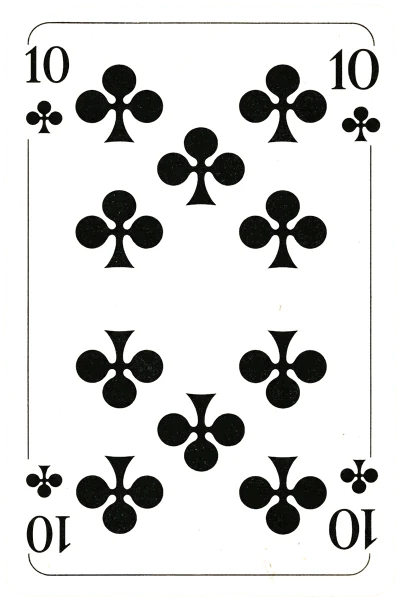
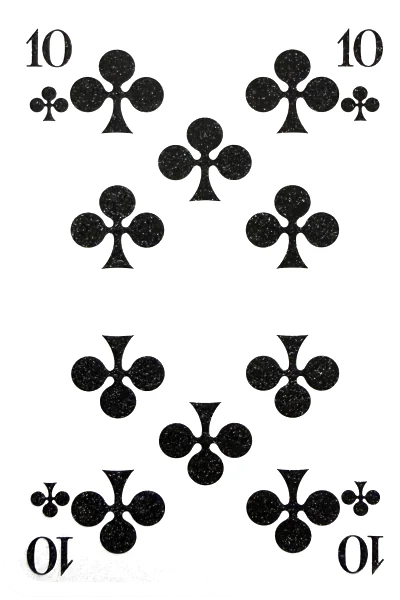
v373: Kreuz 9, 10, Ass neu (ohne Rahmen, gleiches Weiss)
Claude-Session: https://claude.ai/code/session_01Bq3j1UmgmmQRjdUKFtX7an

diff --git a/sw.js b/sw.js
@@ -4,7 +4,7 @@
 // Nur dann wirft der Browser den alten Zwischenspeicher weg und alle Spieler
 // bekommen zuverlässig die neue Version. Das ist der einzige Handgriff, den man
 // nach dem Bearbeiten von Dateien nicht vergessen darf.
-const CACHE_NAME = "trollhouse-v372";
+const CACHE_NAME = "trollhouse-v373";
 
 const DATEIEN = [
   "./",
@@ -74,18 +74,18 @@ const DATEIEN = [
   "bilder/fussball-auktion/spieler-it-5.png?v=335",
   "bilder/fussball-auktion/spieler-de-1.png?v=335",
   "bilder/doppelkopf-dame.webp",
-  "bilder/doppelkopf/kreuz-9.webp?v=372",
-  "bilder/doppelkopf/kreuz-10.webp?v=372",
-  "bilder/doppelkopf/kreuz-bube.webp?v=372",
-  "bilder/doppelkopf/kreuz-dame.webp?v=372",
-  "bilder/doppelkopf/kreuz-koenig.webp?v=372",
-  "bilder/doppelkopf/kreuz-ass.webp?v=372",
-  "bilder/doppelkopf/herz-9.webp?v=372",
-  "bilder/doppelkopf/herz-10.webp?v=372",
-  "bilder/doppelkopf/herz-bube.webp?v=372",
-  "bilder/doppelkopf/herz-dame.webp?v=372",
-  "bilder/doppelkopf/herz-koenig.webp?v=372",
-  "bilder/doppelkopf/herz-ass.webp?v=372",
+  "bilder/doppelkopf/kreuz-9.webp?v=373",
+  "bilder/doppelkopf/kreuz-10.webp?v=373",
+  "bilder/doppelkopf/kreuz-bube.webp?v=373",
+  "bilder/doppelkopf/kreuz-dame.webp?v=373",
+  "bilder/doppelkopf/kreuz-koenig.webp?v=373",
+  "bilder/doppelkopf/kreuz-ass.webp?v=373",
+  "bilder/doppelkopf/herz-9.webp?v=373",
+  "bilder/doppelkopf/herz-10.webp?v=373",
+  "bilder/doppelkopf/herz-bube.webp?v=373",
+  "bilder/doppelkopf/herz-dame.webp?v=373",
+  "bilder/doppelkopf/herz-koenig.webp?v=373",
+  "bilder/doppelkopf/herz-ass.webp?v=373",
   "bilder/tetris-stein.webp",
   "bilder/knobeln-streichhoelzer.webp",
   "bilder/merks-dir-karten.webp",

diff --git a/spiele/doppelkopf/karten.js b/spiele/doppelkopf/karten.js
@@ -168,7 +168,7 @@ export function kartenSvg(id) {
   if (cache.has(id)) return cache.get(id);
   const bild = BILD_KARTEN[farbe + rang];
   if (bild) {
-    const html = `<img class="dk-karte-svg dk-karte-bild" src="bilder/doppelkopf/${bild}.webp?v=372" alt="${farbe}${rang}" draggable="false">`;
+    const html = `<img class="dk-karte-svg dk-karte-bild" src="bilder/doppelkopf/${bild}.webp?v=373" alt="${farbe}${rang}" draggable="false">`;
     cache.set(id, html);
     return html;
   }

diff --git a/app.js b/app.js
@@ -15,7 +15,7 @@ import {
 // Spiel-Fixes (spiele/<id>/spiel.js) verzoegert oder gar nicht mit.
 import { SPIELE, spielInfo } from "./spiele/register.js?v=335";
 
-export const APP_VERSION = "v372";
+export const APP_VERSION = "v373";
 const appVersion = document.getElementById("app-version");
 appVersion.textContent = "Version " + APP_VERSION;
 

diff --git a/spiele/register.js b/spiele/register.js
@@ -18,7 +18,7 @@
 // in der Olympiade trotz Fix in v201/v202 teils noch bestehen lassen.
 // WICHTIG: bei jedem Versionssprung hier UND in app.js (Import von
 // register.js) mit hochzaehlen.
-const SPIEL_VERSION = "372";
+const SPIEL_VERSION = "373";
 
 export const SPIELE = [
   {
